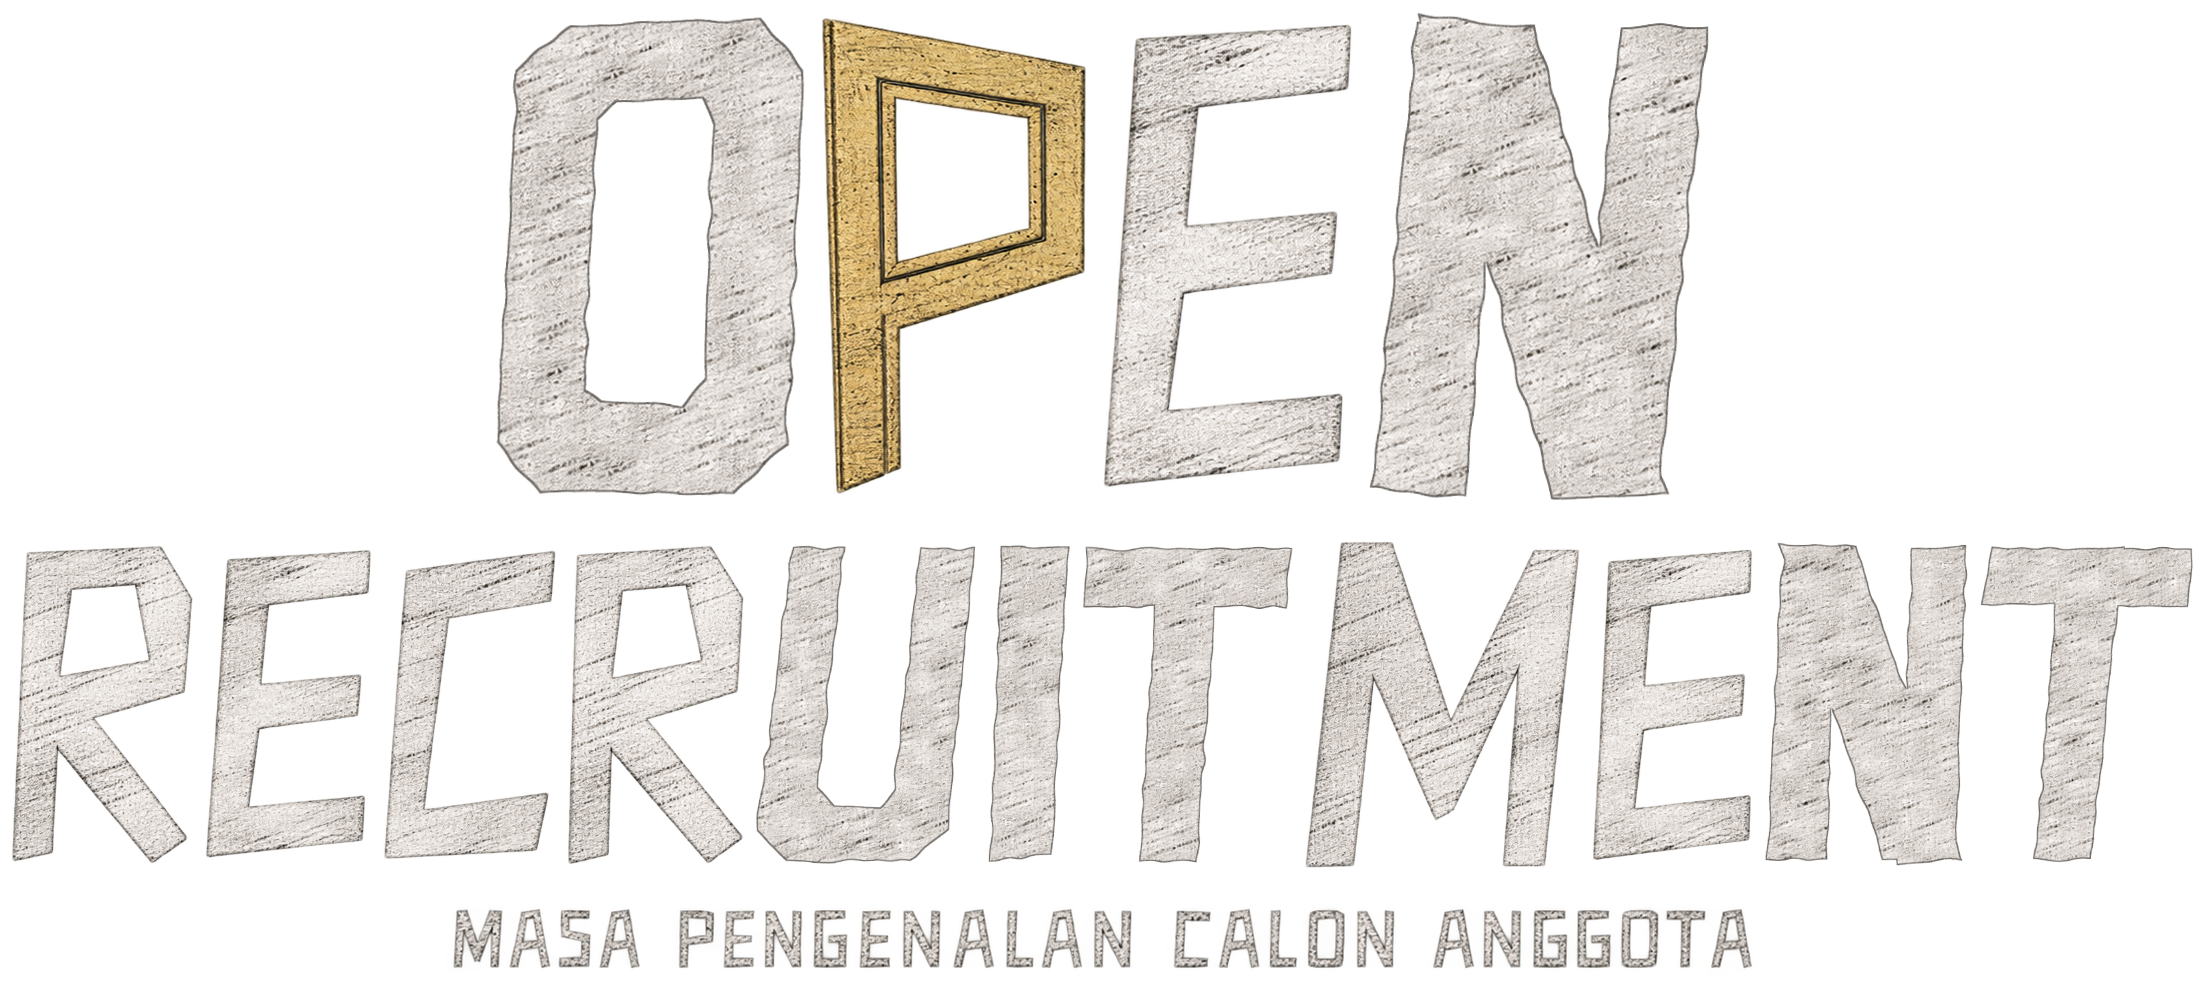
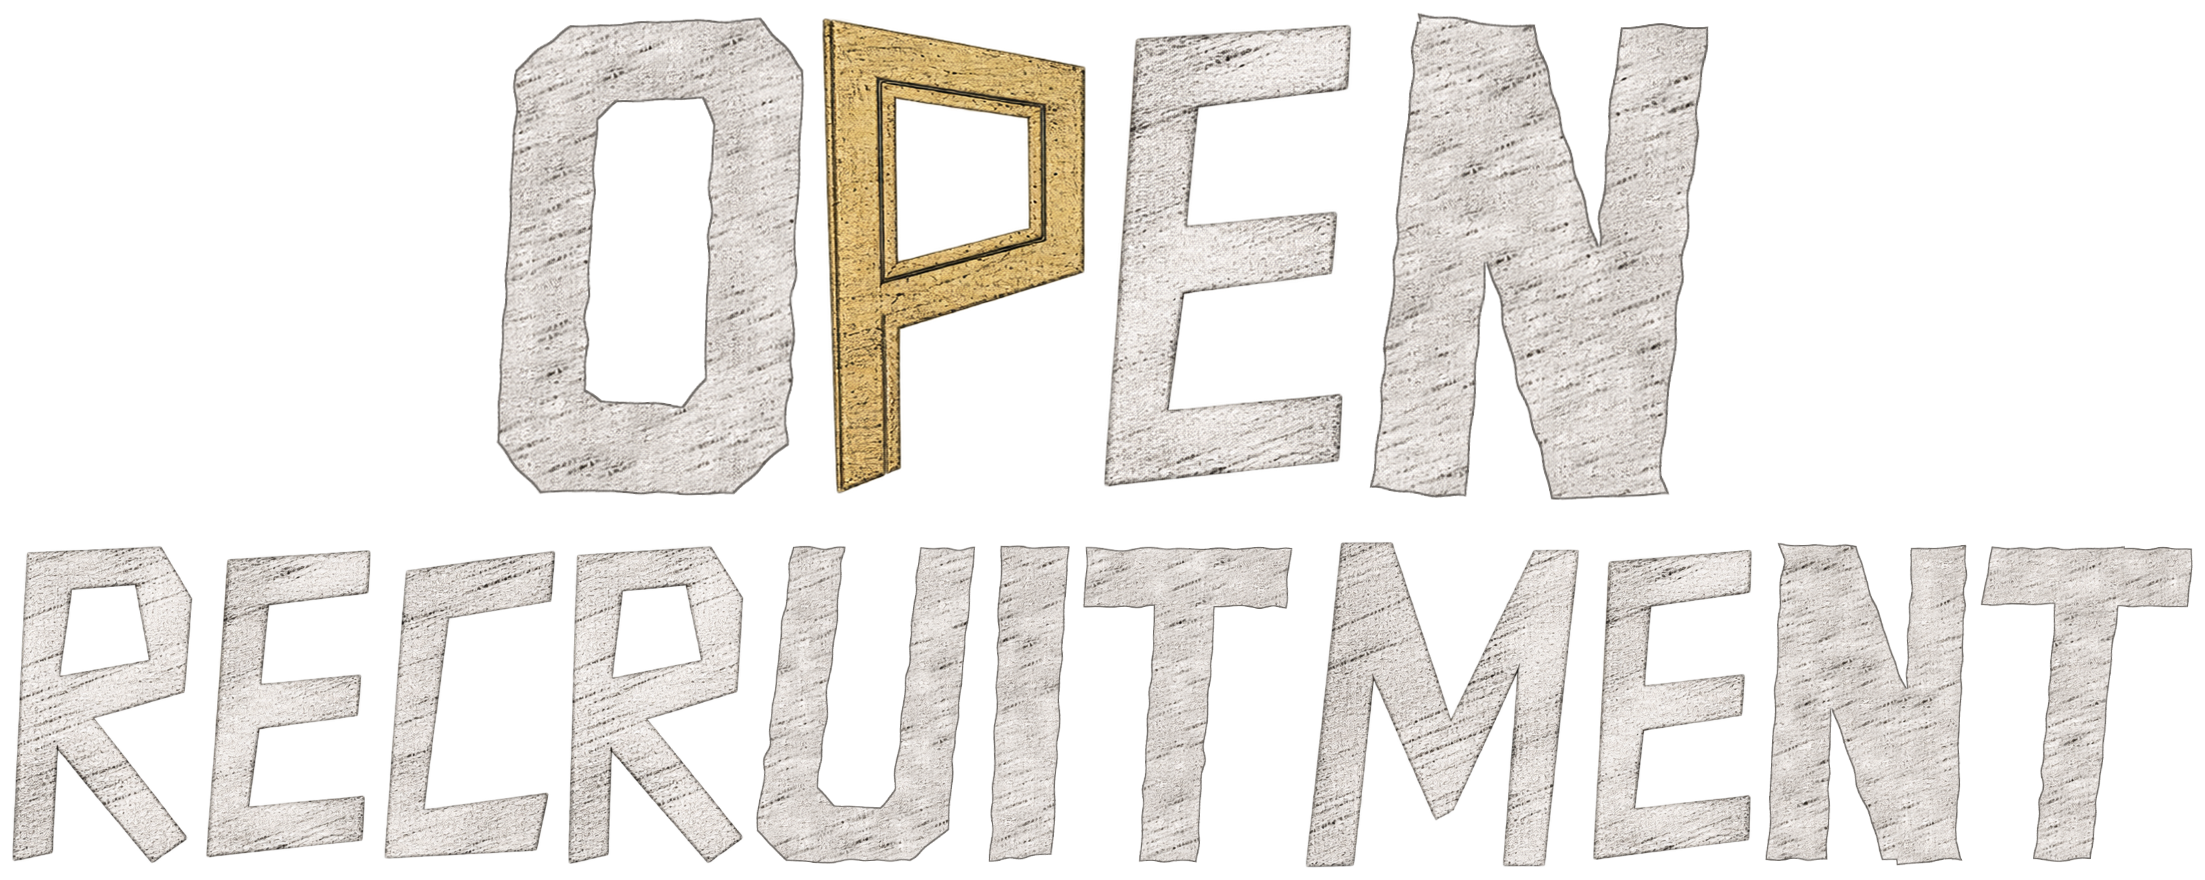
feat: drop the subtitle line from the Open Recruitment title
The hero title now stands alone, without "MASA PENGENALAN CALON ANGGOTA"
underneath. The subtitle stays available in the generator behind a
WITH_SUBTITLE switch. The screen-reader heading is now just "Open
Recruitment" to match what is shown.

diff --git a/app/page.tsx b/app/page.tsx
@@ -29,7 +29,7 @@ export default function Home(){
  return <><a className="skip" href="#formulir">Langsung ke formulir</a>
  <header className="site-header"><a className="brand" href="#beranda"><img src={img("hmi-pringsewu.png")} alt="Logo HMI"/><span>HIMPUNAN MAHASISWA ISLAM<br/><strong>CABANG PRINGSEWU</strong></span></a><nav aria-label="Navigasi utama"><a href="#tentang">Tentang MAPERCA</a><a href="#formulir" className="nav-cta">Isi formulir <ArrowUpRight size={16}/></a></nav></header>
  <main id="beranda"><section className="hero desk"><div className="keyboard" aria-hidden="true">{Array.from({length:24},(_,i)=><i key={i}/>)}</div><div className="ruler" aria-hidden="true"/><div className="pencil decor-pencil" aria-hidden="true"/>
- <div className="hero-inner"><div className="hero-paper paper"><div className="holes" aria-hidden="true"/><span className="binder" aria-hidden="true"/><div className="eyebrow"><span/> LANGKAH PERTAMAMU DIMULAI DI SINI</div><h1><span className="sr-only">Open Recruitment — Masa Pengenalan Calon Anggota</span><img src={img("open-recruitment-judul.webp")} alt="" width={1400} height={630}/></h1><p className="hero-description">Kenalan, bertumbuh, dan temukan<br/> ruang berprosesmu bersama HMI.</p><a className="button main-cta" href="#formulir">Daftar Sekarang <ArrowUpRight size={21}/></a><div className="hero-footnote"><Pencil size={14}/> Satu formulir. Awal cerita baru.</div><span className="doodle-star star-one" aria-hidden="true">✧</span><span className="doodle-star star-two" aria-hidden="true">✦</span></div>
+ <div className="hero-inner"><div className="hero-paper paper"><div className="holes" aria-hidden="true"/><span className="binder" aria-hidden="true"/><div className="eyebrow"><span/> LANGKAH PERTAMAMU DIMULAI DI SINI</div><h1><span className="sr-only">Open Recruitment</span><img src={img("open-recruitment-judul.webp")} alt="" width={1400} height={559}/></h1><p className="hero-description">Kenalan, bertumbuh, dan temukan<br/> ruang berprosesmu bersama HMI.</p><a className="button main-cta" href="#formulir">Daftar Sekarang <ArrowUpRight size={21}/></a><div className="hero-footnote"><Pencil size={14}/> Satu formulir. Awal cerita baru.</div><span className="doodle-star star-one" aria-hidden="true">✧</span><span className="doodle-star star-two" aria-hidden="true">✦</span></div>
  <div className="hero-collage"><div className="little-note"><span className="tape"/>Halo, calon<br/>keluarga baru! <span className="hand-arrow">↴</span></div><div className="polaroid"><span className="tape"/><img src={img("maperca-foto.webp")} alt="Enam mahasiswa berkemeja putih dengan kalung tanda HMI, berpose di antara bingkai bermotif hijau" width={800} height={1000}/><p>Mulai langkah baikmu. <span>✳</span></p></div><div className="round-sticker">BERPROSES<br/><strong>BARENG!</strong><Sparkles size={22}/></div></div></div><div className="desk-caption"><span>HMI <b>×</b> GENERASI BERPROSES</span><span>SCROLL UNTUK KENALAN <ArrowDown size={13}/></span></div></section>
  <section className="about" id="tentang"><div className="section-label">01 / KENALAN DULU</div><div className="about-heading"><h2>Setiap perjalanan besar,<br/>dimulai dari <em>kenalan.</em></h2><p>MAPERCA adalah Masa Pengenalan Calon Anggota. Ruang awal untuk mengenal HMI, bertemu teman baru, dan membuka langkah dalam berorganisasi.</p></div><div className="about-notes"><div><BookOpen/><span><b>Kenali organisasinya</b><small>Mulai mengenal HMI dan ruang berprosesnya.</small></span></div><div><Users/><span><b>Perluas pertemanan</b><small>Bertemu mahasiswa dari beragam latar.</small></span></div><div><Sparkles/><span><b>Mulai langkahmu</b><small>Bawa rasa ingin tahu dan semangat belajar.</small></span></div></div></section>
  <section className="registration desk" id="formulir"><div className="registration-wrap"><aside className="form-intro"><div className="section-label light">02 / GILIRAN KAMU</div><h2>Kenalan lewat<br/><span>catatan kecil.</span></h2><p>Isi data dirimu dengan benar.<br/>Pastikan nomor WhatsApp kamu aktif agar mudah dihubungi panitia.</p><div className="check-note"><span className="tape"/><span className="note-title">Sebelum mulai...</span><p><Check size={17}/> Siapkan informasi kampusmu</p><p><Check size={17}/> Gunakan nomor HP aktif</p><p><Check size={17}/> Periksa kembali sebelum kirim</p><div className="note-doodle">See you, kawan! ✧</div></div><div className="privacy-note"><ShieldCheck size={24}/><span>Data digunakan untuk keperluan pendaftaran dan komunikasi kegiatan MAPERCA.</span></div></aside>

diff --git a/design/build_open_recruitment.py b/design/build_open_recruitment.py
@@ -3,7 +3,7 @@
 The new title reuses what already exists in design/exec-1de8301c-*.png:
   * the real cut-out letters P (gold), E, R, C and M
   * the grain of the stone/paper texture, harvested from inside the real letters
-  * the subtitle line, with the doubled "G" of "PENGGENALAN" removed
+  * optionally the subtitle line (WITH_SUBTITLE), with the doubled "G" of "PENGGENALAN" removed
 Letters the original word does not contain (O, N, U, I, T) are drawn as angular,
 slightly irregular polygons, filled with that harvested texture, and given the
 same thin dark outline.
@@ -22,6 +22,7 @@ SRC = ROOT / "design" / "exec-1de8301c-29b0-411a-bbd6-9fb7885177d0.png"
 OUT_MASTER = ROOT / "design" / "open-recruitment-judul.png"
 OUT_WEB = ROOT / "public" / "images" / "open-recruitment-judul.webp"
 SEED = 11
+WITH_SUBTITLE = False  # the "MASA PENGENALAN CALON ANGGOTA" line under the title
 
 H = 470  # cap height of the original letters, in source pixels
 OUTLINE = np.array([98, 94, 90], np.float32)
@@ -213,9 +214,9 @@ def main():
         place(canvas, l, x, 590 + 160)
         x += l.shape[1] + gap2
 
-    sub = subtitle_without_double_g()
-    sub_img = Image.fromarray(sub, "RGBA")
-    canvas.alpha_composite(sub_img, ((CW - sub_img.width) // 2, 945))
+    if WITH_SUBTITLE:
+        sub_img = Image.fromarray(subtitle_without_double_g(), "RGBA")
+        canvas.alpha_composite(sub_img, ((CW - sub_img.width) // 2, 945))
 
     bbox = canvas.getbbox()
     canvas = canvas.crop((max(0, bbox[0] - 12), max(0, bbox[1] - 12), min(CW, bbox[2] + 12), min(CH, bbox[3] + 12)))
